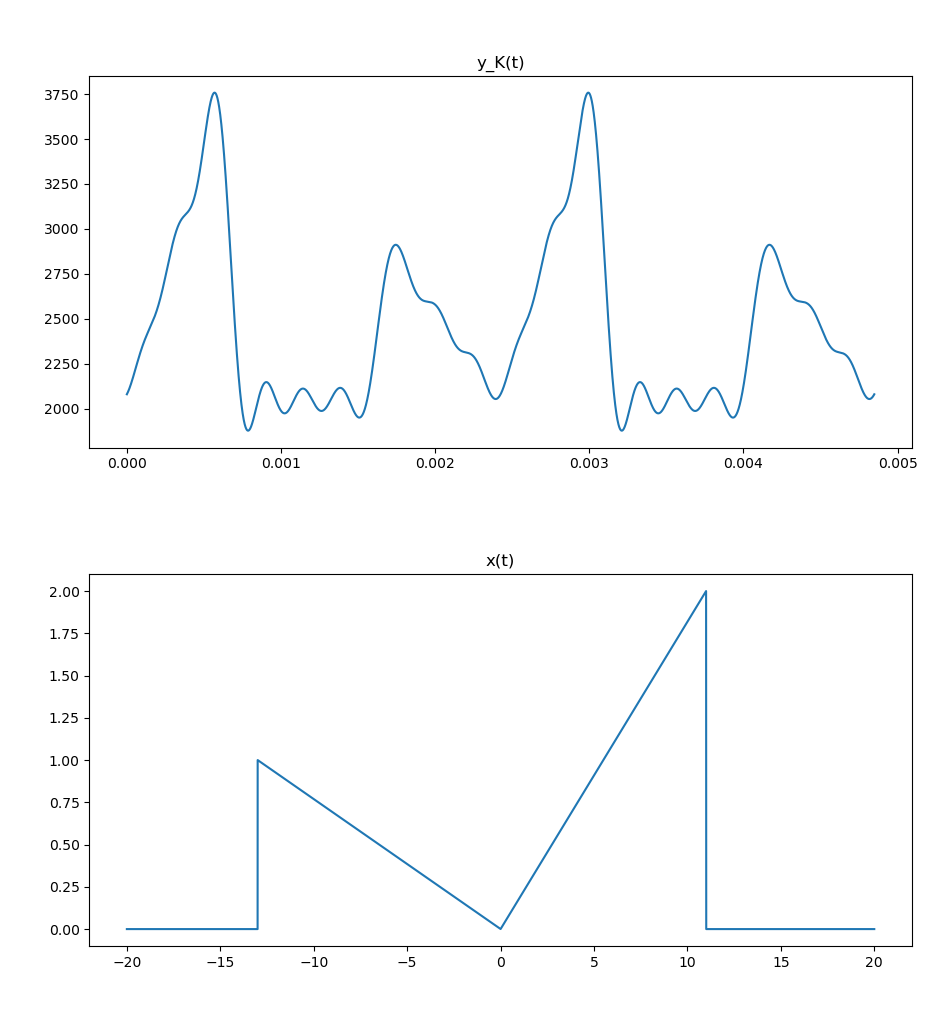
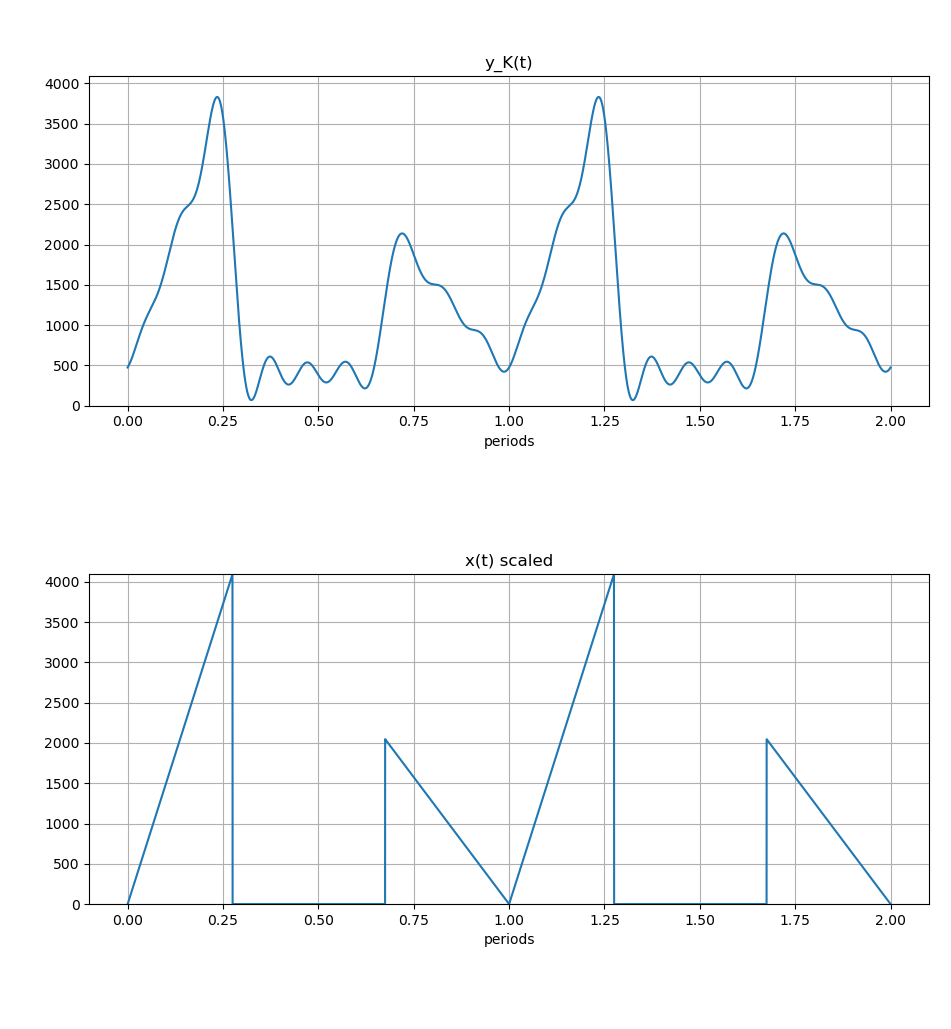
SDD 301 update

diff --git a/Documentation/Design/SDD/SDD301.md b/Documentation/Design/SDD/SDD301.md
@@ -87,7 +87,7 @@ The K22F DAC requires:
 
 **DC offset (c₁):**
 ```
-c₁ = 4095/2 = 2047.5 = ~2048
+c₁ = 4095/10 = ~410
 ```
 Centers the signal at mid-scale.
 
@@ -100,14 +100,14 @@ A_pp = max(x) - min(x)
 
 With 10% headroom:
 ```
-c₂ = 0.9 * (4095/2) / max(|x(t)|)
-c₂ = ~1842 / max(|x(t)|)
-c₂ = 1842 / 2 = 921
+c₂ = 0.9 * (4095) / max(|x(t)|)
+c₂ = ~3686 / max(|x(t)|)
+c₂ = 3686 / 2 = 1843
 ```
 
 **Result:**
-- c₁ = 2048
-- c₂ = 921
+- c₁ = 410
+- c₂ = 1843
 
 ## Frequency Scaling c₃
 
@@ -153,8 +153,8 @@ This gives:
 
 | parameter | value |
 |-----------|-------|
-| C_1       | 2048  |
-| C_2       | 921   |
+| C_1       | 410   |
+| C_2       | 1843  |
 | C_3       | 16500 |
 
 ---
@@ -209,12 +209,11 @@ def find_fft_k(T, function, K_max, C_1=0, C_2=1, C_3=1):
 Then to call it:
 
 ```python
-on main ❮ python3
-Python 3.14.2 (main, Dec 10 2025, 20:09:47) [GCC 14.2.1 20250405] on linux
-Type "help", "copyright", "credits" or "license" for more information.
+>>> import dsp_sim_utils as s
+>>> import numpy as n
 >>> A = 1
 >>> B = 3
->>> def x(t):
+... def x(t):
 ...     if -(B+10) <= t < 0:
 ...          return -t / (B+10)
 ...     elif 0 <= t < (A+10):
@@ -222,28 +221,33 @@ Type "help", "copyright", "credits" or "license" for more information.
 ...     else:
 ...          return 0
 ...
->>> import dsp_sim_utils as s
->>> Xk = s.find_fft_k(40, x, 10)
-<class 'int'> <class 'int'> 1 40
->>> print(Xk)
-[ 4.37500000e-01+0.j          1.29837206e-01-0.09004759j
- -2.34354926e-01-0.10612265j -1.14120681e-01+0.01265463j
-  7.60403684e-02+0.07454009j  4.60652343e-03-0.0299229j
- -5.93476414e-02-0.05293962j -4.36936105e-04+0.0473512j
-  2.19557396e-02+0.02493691j -7.12110187e-03-0.0514814j
- -1.85370914e-02+0.0026216j ]
->>> Y_k = X_k.copy()
->>> Y_k[0] = 921 * X_k[0] + 2048
->>> Y_k[1:] = 921 * X_k[1:]
+>>> Y_k = s.find_fft_k(40, x, 10, 410,1843, 16500)
 >>> print(Y_k)
-[ 2.45093750e+03 +0.j          1.19580067e+02-82.9338318j
- -2.15840887e+02-97.73895807j -1.05105147e+02+11.65491355j
-  7.00331793e+01+68.65142694j  4.24260808e+00-27.55899471j
- -5.46591777e+01-48.7573927j  -4.02418152e-01+43.61045175j
-  2.02212362e+01+22.96689327j -6.55853482e+00-47.41437221j
- -1.70726612e+01 +2.41449089j]
+[ 1.21631250e+03  +0.j          2.39289971e+02-165.95771119j
+ -4.31916129e+02-195.58403878j -2.10324415e+02 +23.32248174j
+  1.40142399e+02+137.37739398j  8.48982269e+00 -55.14791232j
+ -1.09377703e+02 -97.56772502j -8.05273241e-01 +87.26825469j
+  4.04644281e+01 +45.95872345j -1.31241907e+01 -94.88022582j
+ -3.41638594e+01  +4.83160338j]
 ```
 refer to `../../Simulation/dsp_sim_utils.py` for functions. (I wrote them myself).
+
+so it is shown, letting a_k = re{X_k} and b_k = im{X_k}
+| k  | a (real)     | b (imag)      |
+|----|--------------|---------------|
+| 0  | 1216.31250   | 0             |
+| 1  | 239.289971   | -165.95771119 |
+| 2  | -431.916129  | -195.58403878 |
+| 3  | -210.324415  | 23.32248174   |
+| 4  | 140.142399   | 137.37739398  |
+| 5  | 8.48982269   | -55.14791232  |
+| 6  | -109.377703  | -97.56772502  |
+| 7  | -0.805273241 | 87.26825469   |
+| 8  | 40.4644281   | 45.95872345   |
+| 9  | -13.1241907  | -94.88022582  |
+| 10 | -34.1638594  | 4.83160338    |
+
+Wow, a 2D array!
 
 ---
 
@@ -276,34 +280,82 @@ def fft_synth_real(Y_k, omega_0, K, t):
 ```
 and is called by
 ```python
-on main ❮ python3
-Python 3.14.2 (main, Dec 10 2025, 20:09:47) [GCC 14.2.1 20250405] on linux
-Type "help", "copyright", "credits" or "license" for more information.
->>> import dsp_sim_utils as s
->>> import numpy as n
->>> A = 1
->>> B = 3
->>> def x(t):
-...     if -(B+10) <= t < 0:
-...          return -t / (B+10)
-...     elif 0 <= t < (A+10):
-...          return 2*t / (A+10)
-...     else:
-...          return 0
-...
->>> Y_k = s.find_fft_k(40, x, 10, 2048, 921, 16500)
+>>> import matplotlib.pyplot as plt
 >>> T_new = 40 / 16500
 >>> w_0 = 2 * n.pi / T_new
 >>> t = n.linspace(0, 2*T_new, 10000)
+>>> t_periods = t / T_new
 >>> y = s.fft_synth_real(Y_k, w_0, 10, t)
+>>>
+>>> t_x = n.linspace(0, 2, 10000)
+>>> x_vals = n.array([x((ti * 40 + 20) % 40 - 20) for ti in t_x])
+>>> x_scaled = (4095/2) * x_vals
 >>> fig, (ax1, ax2) = plt.subplots(2, 1)
->>> ax1.plot(t, y)
+>>>
+>>> ax1.plot(t_periods, y)
 >>> ax1.set_title('y_K(t)')
->>> t_x = n.linspace(-20, 20, 10000)
->>> x_vals = n.array([x(ti) for ti in t_x])
->>> ax2.plot(t_x, x_vals)
->>> ax2.set_title('x(t)')
+>>> ax1.set_xlabel('periods')
+>>> ax1.set_ylim([0, 4095])
+>>>
+>>> ax2.plot(t_x, x_scaled)
+>>> ax2.set_title('x(t) scaled')
+>>> ax2.set_xlabel('periods')
+>>> ax2.set_ylim([0, 4095])
+>>>
 >>> plt.tight_layout()
+>>> ax1.grid(True)
+>>> ax2.grid(True)
 >>> plt.show()
 ```
 ![Alt text](./Artifacts/SDD_301_Artifact_2.png "Figure 1")
+
+now just for kicks lets crank K up to 500
+
+```python
+>>> import dsp_sim_utils as s
+>>> import numpy as n
+>>> import matplotlib.pyplot as plt
+>>>
+>>> A = 1
+>>> B = 3
+>>>
+>>> def x(t):
+...     if -(B+10) <= t < 0:
+...         return -t / (B+10)
+...     elif 0 <= t < (A+10):
+...         return 2*t / (A+10)
+...     else:
+...         return 0
+...
+>>> Y_k = s.find_fft_k(40, x, 500, 410, 1843, 16500)
+>>> T_new = 40 / 16500
+>>> w_0 = 2 * n.pi / T_new
+>>> t = n.linspace(0, 2*T_new, 10000)
+>>> t_periods = t / T_new
+>>>
+>>> y = s.fft_synth_real(Y_k, w_0, 500, t)
+>>>
+>>> t_x = n.linspace(0, 2, 10000)
+>>> x_vals = n.array([x((ti * 40 + 20) % 40 - 20) for ti in t_x])
+>>> x_scaled = (4095/2) * x_vals
+>>>
+>>> fig, (ax1, ax2) = plt.subplots(2, 1)
+>>>
+>>> ax1.plot(t_periods, y)
+>>> ax1.set_title('y_K(t)')
+>>> ax1.set_xlabel('periods')
+>>> ax1.set_ylim([0, 4095])
+>>>
+>>> ax2.plot(t_x, x_scaled)
+>>> ax2.set_title('x(t) scaled')
+>>> ax2.set_xlabel('periods')
+>>> ax2.set_ylim([0, 4095])
+>>>
+>>> plt.tight_layout()
+>>> ax1.grid(True)
+>>> ax2.grid(True)
+>>> plt.show()
+```
+![Alt text](./Artifacts/SDD_301_Artifact_3.png "Figure 1")
+
+As you can see, at high K y_k(t) is nearly identical asside from clipping and clipping margins.
